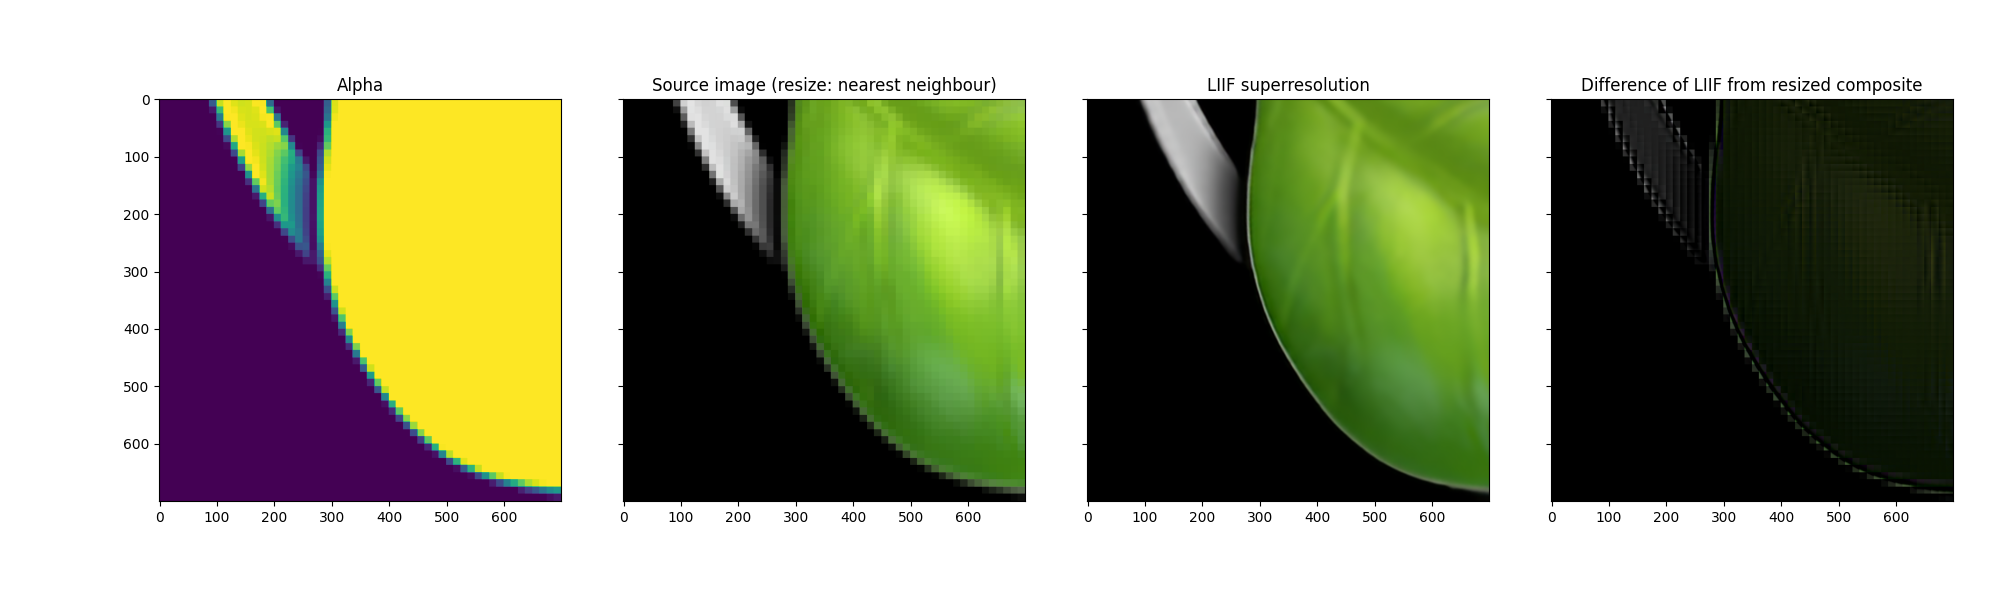
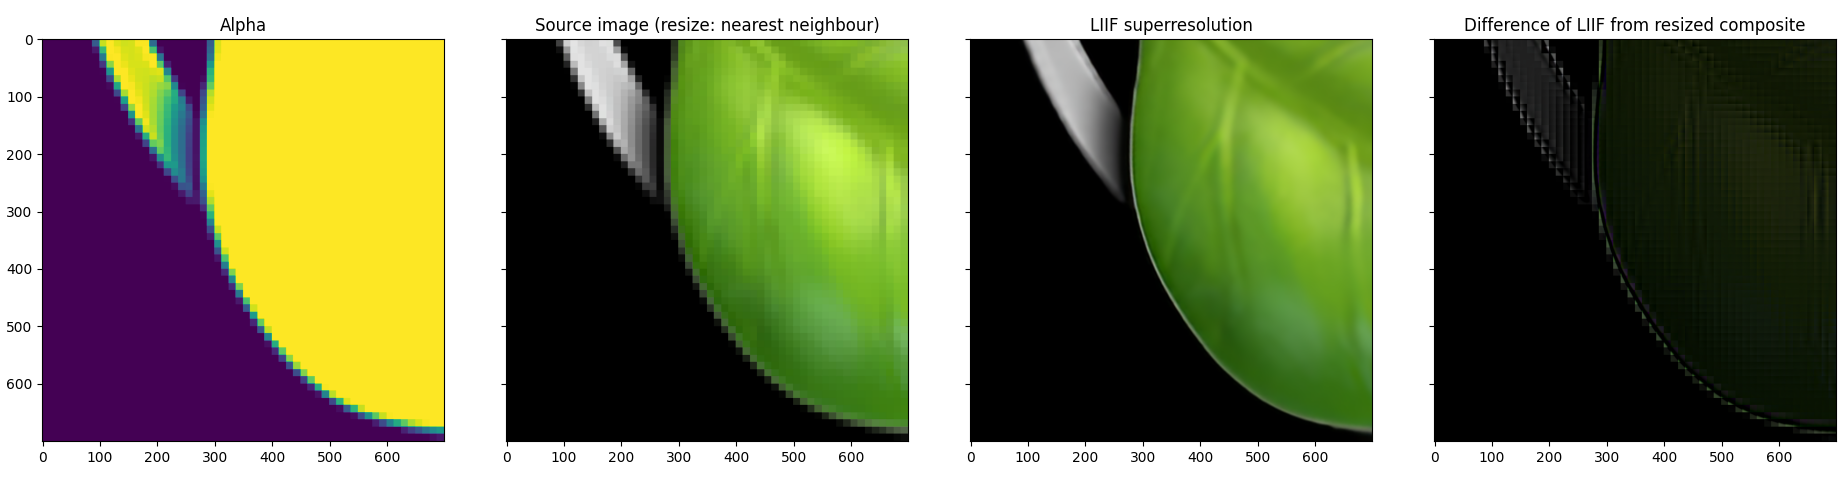
Trim figure for README

diff --git a/restore_alpha_to_enlarged.py b/restore_alpha_to_enlarged.py
@@ -147,7 +147,16 @@ try:
             fig.tight_layout()
             if SAVING_PLOT:
                 fig.set_size_inches((20,6))
-                fig.savefig("alpha_composite_comparison.png")
+                fig_name = "alpha_composite_comparison.png"
+                fig.savefig(fig_name)
+                reload_fig = imread(fig_name)
+                fig_s = reload_fig.shape
+                clip_y_t = fig_s[0] // 10 # ~10% top crop
+                clip_y_b = -(fig_s[0] // 10) # ~10% bottom crop
+                clip_x_l = fig_s[1] // 17 # ~6% left crop
+                clip_x_r = -(fig_s[1] // 50) # ~ 2% right crop
+                cropped_fig = reload_fig[clip_y_t:clip_y_b, clip_x_l:clip_x_r]
+                imwrite(fig_name, cropped_fig)
             else:
                 fig.show()
         else:
